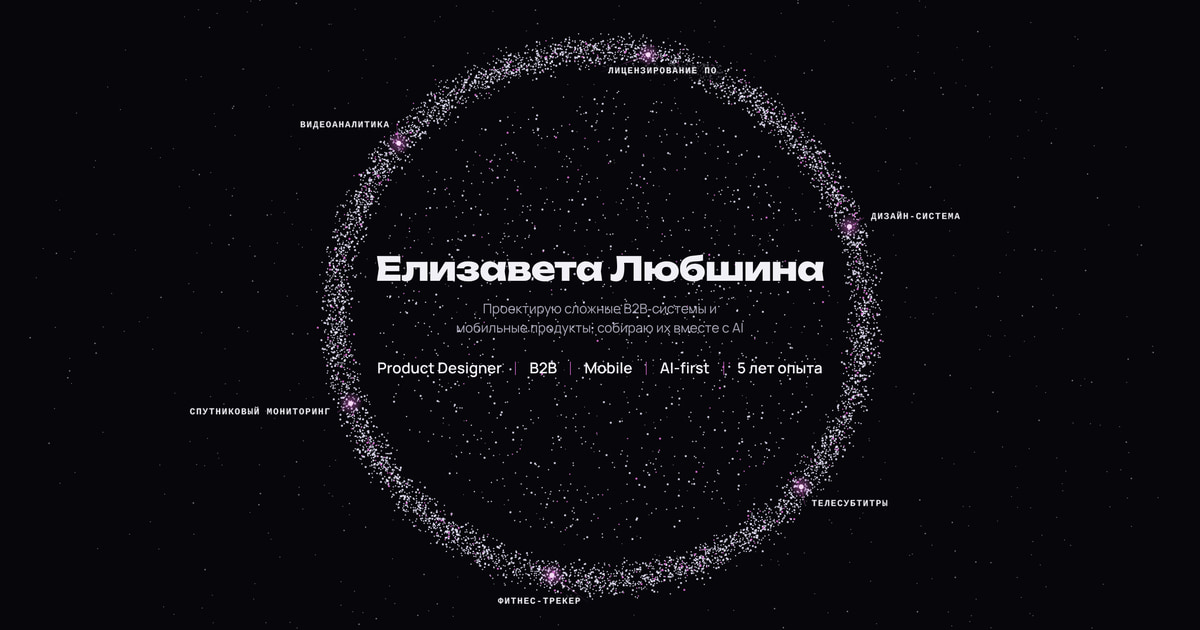
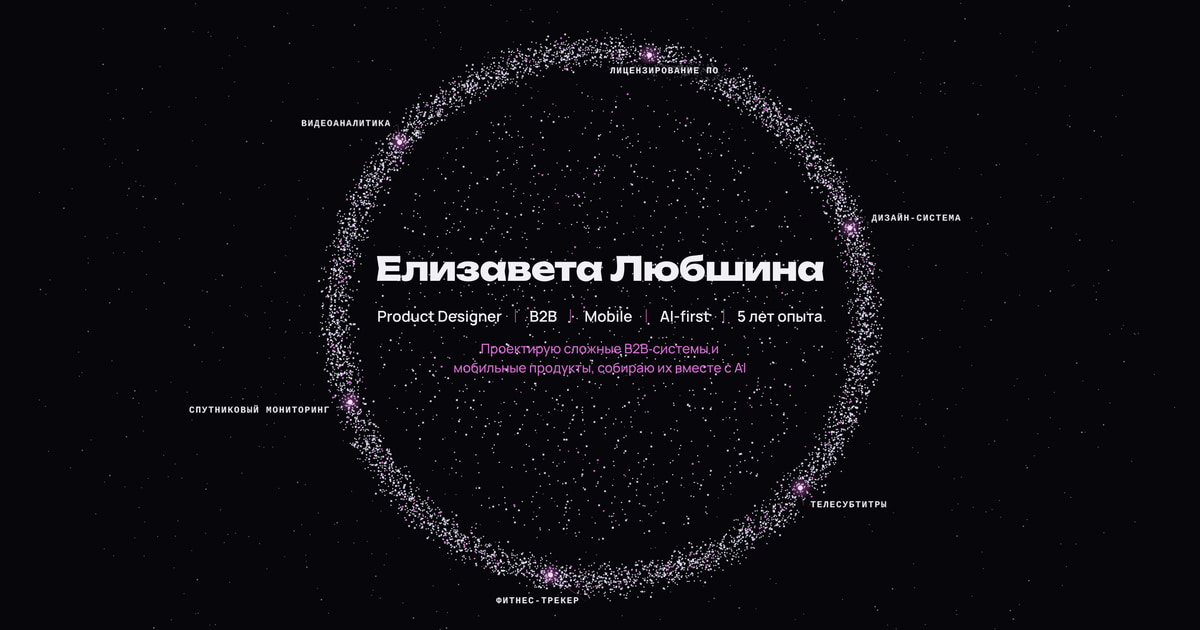
Homepage: positioning line under the role, in the accent
Grey on the starfield read poorly. The line now follows the role chips
and is set in the purple accent at 500; the link preview is retaken.

Claude-Session: https://claude.ai/code/session_016deTy2BBLLhJceshsmTCAT

diff --git a/index.html b/index.html
@@ -9,7 +9,7 @@
   <link rel="canonical" href="https://dizlik.ru/" />
 
   <!-- Link preview: what Telegram, LinkedIn, Slack and search results show.
-       public/og/home.jpg is the first screen (ring, name, line, role, topics)
+       public/og/home.jpg is the first screen (ring, name, role, line, topics)
        shot at 1440x756 and scaled to 1200x630: at 630px high the ring is
        too small for the five role parts. Retake it if the hero changes. -->
   <meta property="og:type" content="website" />
@@ -174,8 +174,8 @@
 
       <div class="hero__head">
         <h1 class="hero__title">Елизавета Любшина</h1>
-        <p class="hero__lead">Проектирую сложные B2B&#8209;системы и мобильные продукты, собираю их вместе с&nbsp;AI</p>
         <p class="hero__role"><span>Product Designer</span><span>B2B</span><span>Mobile</span><span class="hero__role-br" aria-hidden="true"></span><span>AI-first</span><span>5&nbsp;лет опыта</span></p>
+        <p class="hero__lead">Проектирую сложные B2B&#8209;системы и мобильные продукты, собираю их вместе с&nbsp;AI</p>
       </div>
     </section>
     </div>

diff --git a/src/style.css b/src/style.css
@@ -731,15 +731,15 @@ h1, h2, h3 {
   color: var(--text);
 }
 
-/* One line of positioning between the name and the role: secondary text,
-   lighter than the role chips so the name still leads. */
+/* One line of positioning under the role, in the accent: grey on the
+   starfield read poorly. */
 .hero__lead {
   margin: var(--space-2) auto 0;
   max-width: 36em;
   font-size: 16px;
-  font-weight: 400;
+  font-weight: 500;
   line-height: 1.45;
-  color: var(--text-secondary);
+  color: var(--purple);
   text-wrap: balance;
 }
 /* A forced line break in the role, used only where five parts do not fit
